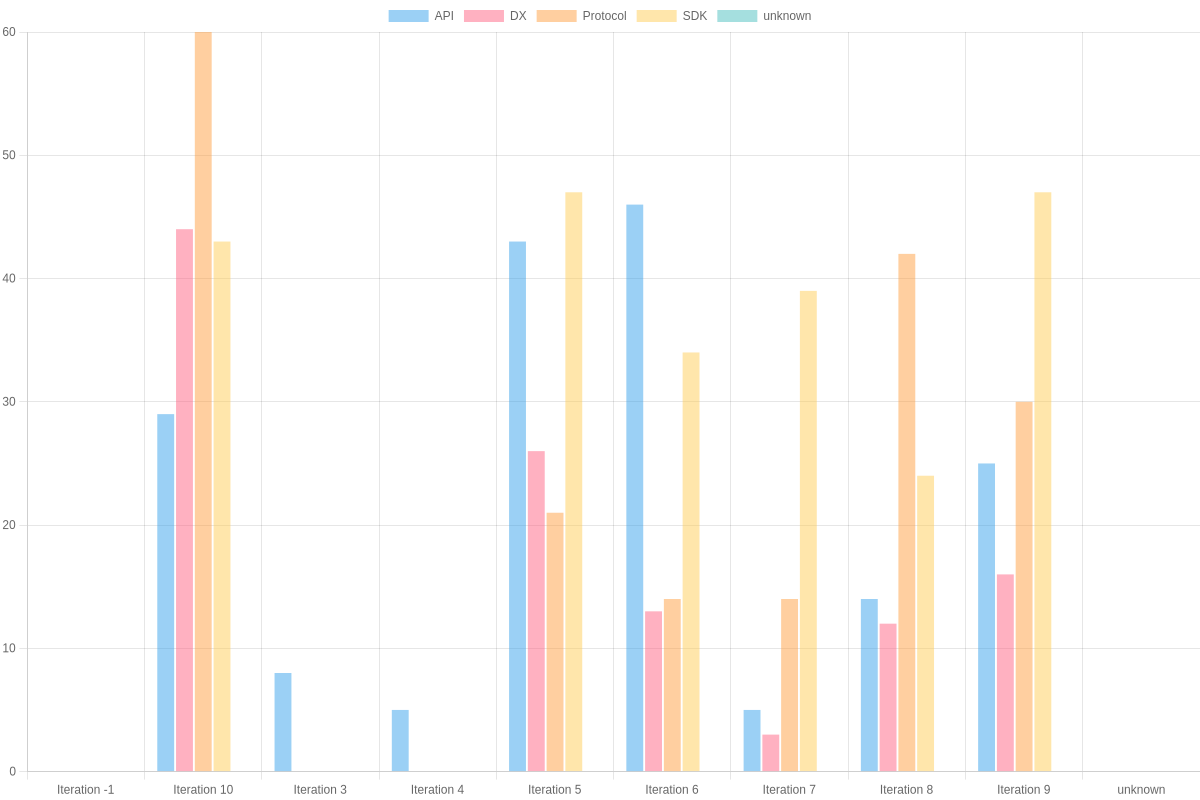
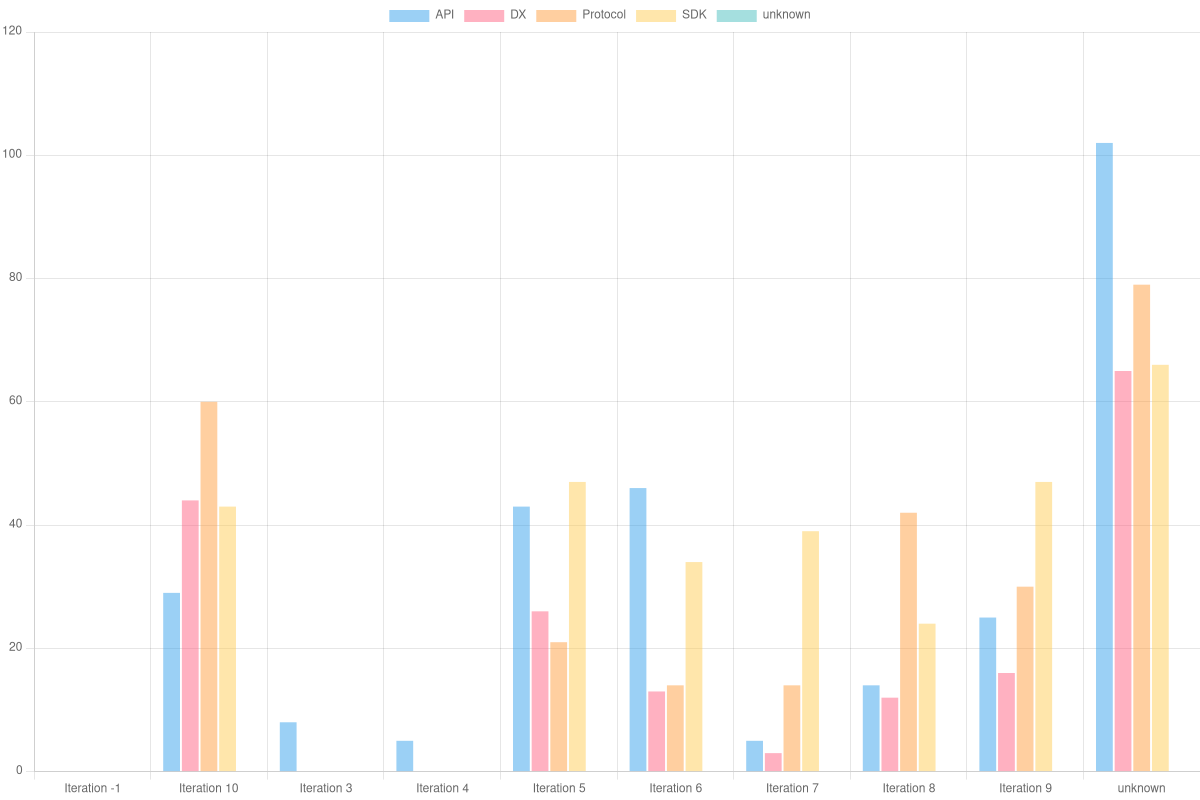
Add status per team member

diff --git a/src/utils.ts b/src/utils.ts
@@ -23,11 +23,12 @@ export const asDate = (value: string | Date, daysOffset: number = 0): Date => {
   return date;
 };
 
-export type ItemMapper = (item: ProjectItem) => Field;
+export type ItemMapper = (item: ProjectItem) => Field | undefined;
 
-export const iterationMapper = (item: ProjectItem): Field => item.iteration;
-export const teamMapper = (item: ProjectItem): Field => item.team;
-export const statusMapper = (item: ProjectItem): Field => item.status;
+export const iterationMapper: ItemMapper = (item: ProjectItem): Field => item.iteration;
+export const teamMapper: ItemMapper = (item: ProjectItem): Field => item.team;
+export const assigneesMapper: ItemMapper = (item: ProjectItem): Field => item.assignees?.users?.nodes?.at(0);
+export const statusMapper: ItemMapper = (item: ProjectItem): Field => item.status;
 
 export const labelReducer = (
   keyMapper: ItemMapper
@@ -66,8 +67,8 @@ export const complexityGroup = (
     return items
       .filter(
         (item) =>
-          (!labelMapper || labelMapper(item)?.value === label) &&
-          (!groupMapper || groupMapper(item)?.value === group) &&
+          (!labelMapper || (labelMapper(item)?.value ?? "unknown") === label) &&
+          (!groupMapper || (groupMapper(item)?.value ?? "unknown") === group) &&
           !!item.complexity?.value
       )
       .reduce((sum, item) => sum + parseInt(item.complexity.value), 0);

diff --git a/src/index.ts b/src/index.ts
@@ -8,6 +8,7 @@ import {
 } from "./source";
 import {
   asDate,
+  assigneesMapper,
   clean,
   complexityGroup,
   groupBy,
@@ -46,8 +47,21 @@ const execute = async () => {
     const endDate = asDate(iteration.startDate, iteration.duration + 1);
     if (startDate > now || endDate <= now) continue;
     currentIteration = iteration;
-    // Render Status per Team per Day graph
 
+    // Render Status per Team member per Day graph
+    await dynamicRender(
+      iterationItems,
+      labelReducer(assigneesMapper),
+      staticLabels(stati),
+      complexityGroup(assigneesMapper, statusMapper),
+      {
+        path: `stats/${name}/status_per_teammember/`,
+        name: runId,
+        stacked: true,
+      }
+    );
+
+    // Render Status per Team per Day graph
     await dynamicRender(
       iterationItems,
       labelReducer(teamMapper),
@@ -106,7 +120,9 @@ const execute = async () => {
         )
         .nl();
     }
-    mdWriter.write(`stats/${name}/`, "README");
+    mdWriter._("### Team member Status", runId)
+      .img(`./status_per_teammember/${runId}.png`, "Current Member Status")
+      .write(`stats/${name}/`, "README");
   }
 
   // Write MD file

diff --git a/src/source.ts b/src/source.ts
@@ -5,11 +5,18 @@ export interface Field {
   color?: string | undefined; 
 }
 
+export interface Assignees {
+  users: {
+    nodes: Field[]
+  } 
+}
+
 export interface ProjectItem {
   iteration: Field;
   complexity: Field;
   team: Field;
   status: Field;
+  assignees: Assignees;
 }
 
 interface ItemsQueryResult {
@@ -54,6 +61,29 @@ const QUERY_ITEMS = `query ($login: String!, $number: Int!, $next: String) {
           status: fieldValueByName(name: "Status") {
             ... on ProjectV2ItemFieldSingleSelectValue {
               value: name
+            }
+          }
+          assignees: content {
+            ... on DraftIssue {
+              users: assignees(first: 1) {
+                nodes {
+                  value: login
+                }
+              }
+            }
+            ... on Issue {
+              users: assignees(first: 1) {
+                nodes {
+                  value: login
+                }
+              }
+            }
+            ... on PullRequest {
+              users: assignees(first: 1) {
+                nodes {
+                  value: login
+                }
+              }
             }
           }
         }

diff --git a/stats/iteration_10/README.md b/stats/iteration_10/README.md
@@ -26,3 +26,6 @@
 <img src="./dx_burn_down.png" width="600" title="DX Burn Down Chart">
 
 
+
+### Team member Status 2024-02-09
+<img src="./status_per_teammember/2024-02-09.png" width="600" title="Current Member Status">
